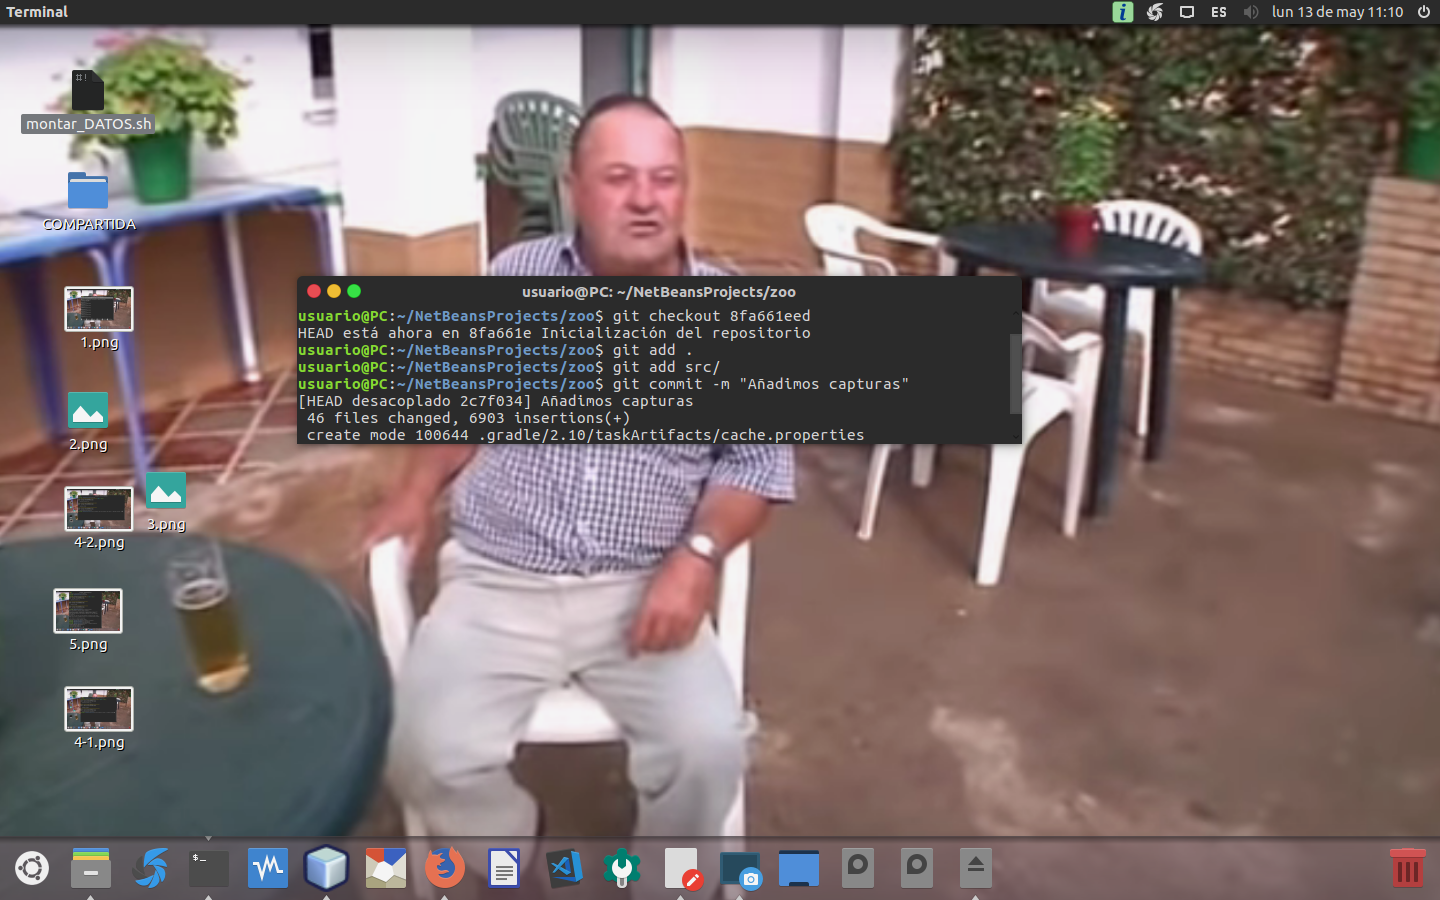
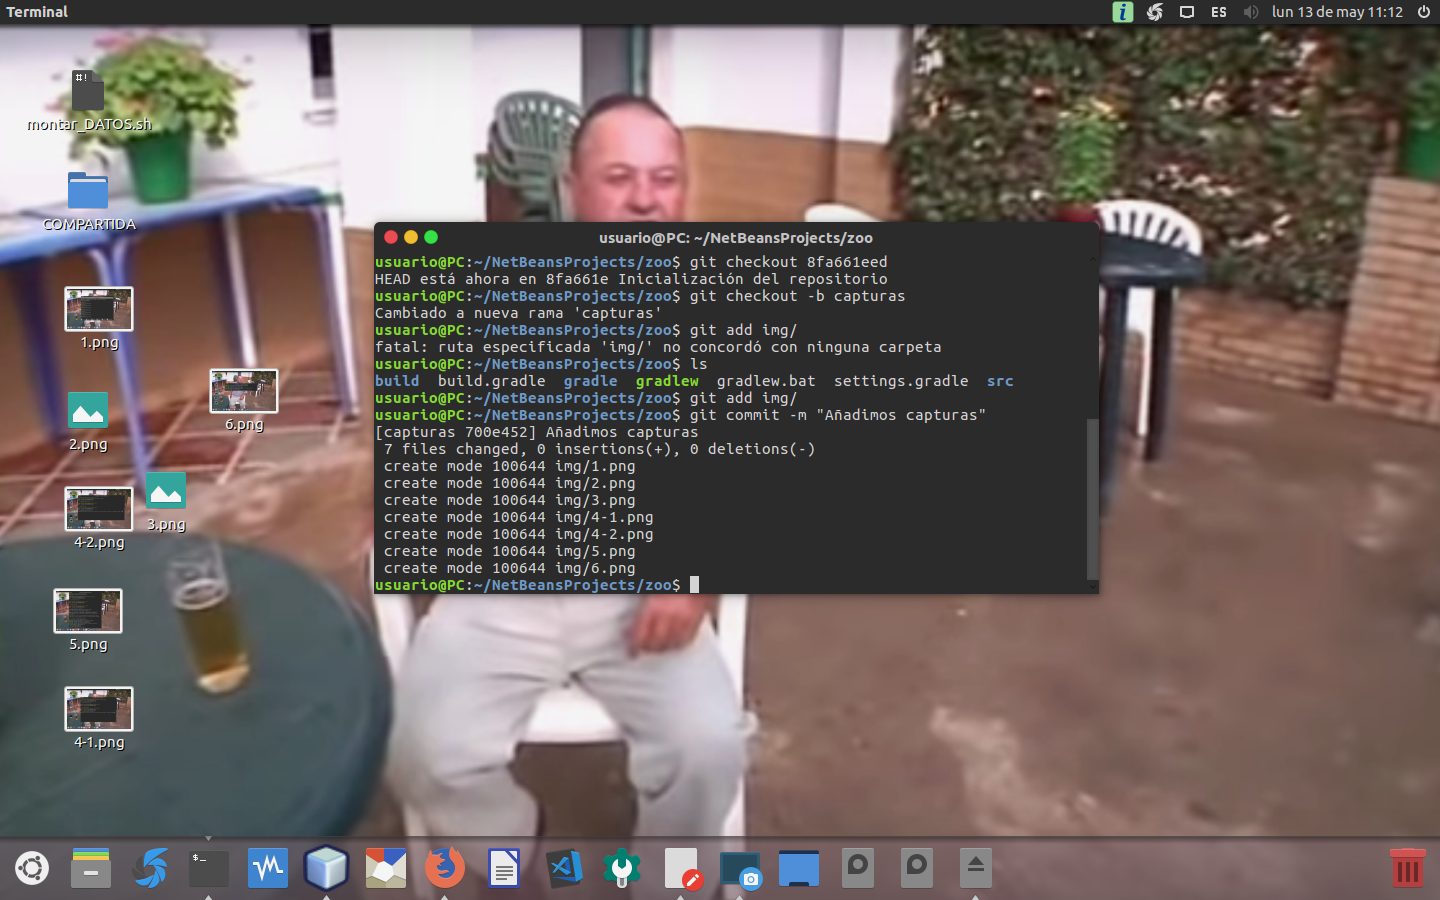
Añadido cambios en PRUEBA.md

Changed region(s): [[0.125, 0.2178, 0.7812, 0.6844], [0.0, 0.0622, 0.125, 0.1556]]

diff --git a/PRUEBA.md b/PRUEBA.md
@@ -3,22 +3,25 @@
 *13 de Mayo de 2019*
 
 ##EJERCICIO 1
-![Captura 1](/img/1.png)
+![Captura 1](img/1.png)
 
 ##EJERCICIO 2
-![Captura 2](/img/2.png)
+![Captura 2](img/2.png)
 
 ##EJERCICIO 3
-![Captura 3](/img/3.png)
+![Captura 3](img/3.png)
+*Los comandos aparecen en el terminal separados por ; debido a que perdí la captura*
 
 ##EJERCICIO 4
-![Captura 4](/img/4.png)
+![Captura 4](img/4-1.png)
+![Captura 4](img/4-2.png)
+*Los comandos aparecen en el terminal separados por ; debido a que perdí la captura*
 
 ##EJERCICIO 5
-![Captura 5](/img/5.png)
+![Captura 5](img/5.png)
 
 ##EJERCICIO 6
-![Captura 6](/img/6.png)
+![Captura 6](img/6.png)
 
 ##EJERCICIO 7
-![Captura 7](/img/7.png)
+![Captura 7](img/7.png)
